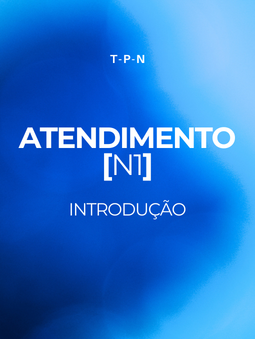
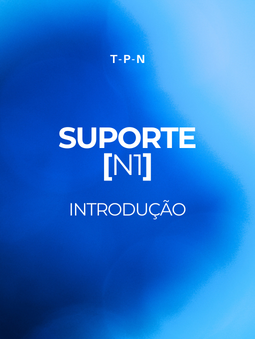
project-v2.0.2

Changed region(s): [[0.0549, 0.354, 0.9333, 0.4425]]

diff --git a/index.html b/index.html
@@ -24,15 +24,13 @@
         </header>
 
         <section class="search-section">
-    <div class="search-bar">
-        <input type="text" placeholder="O que você procura?" aria-label="Pesquisar">
-        
-        <svg class="search-icon" width="22" height="22" viewBox="0 0 24 24" fill="none" stroke="white" stroke-width="2" stroke-linecap="round" stroke-linejoin="round">
-            <circle cx="11" cy="11" r="8"></circle>
-            <line x1="21" y1="21" x2="16.65" y2="16.65"></line>
-        </svg>
-    </div>
-</section>
+            <div class="search-bar">
+                <svg class="search-icon" width="22" height="22" viewBox="0 0 24 24" fill="none" stroke="white" stroke-width="2" stroke-linecap="round" stroke-linejoin="round">
+                    <circle cx="11" cy="11" r="8"></circle>
+                    <line x1="21" y1="21" x2="16.65" y2="16.65"></line>
+                </svg>
+            </div>
+        </section>
 
         <main>
             <section class="main-title-section">
@@ -47,7 +45,7 @@
                     </div>
                     <div class="card-content">
                         <h3>Suporte N1 | [0] - Introdução</h3>
-                        <p>Trabalhar no Suporte de um ISP (Provedor de Internet) é viver no centro de uma operação que não para. Enquanto a cidade dorme, assiste streaming você trabalha.</p>
+                        <p>Trabalhar no suporte é viver no olho do furacão, uma operação que não dorme. Enquanto seus amigos estão bebendo e relaxando, você é o cara que tá no front você é a voz da empresa e o primeiro filtro contra o caos, transformando o "não funciona" do cliente em solução real.</p>
                     </div>
                 </article>
 
@@ -57,7 +55,7 @@
                     </div>
                     <div class="card-content">
                         <h3>Suporte N1 | [1] - Atendimento</h3>
-                        <p>Aqui é onde a mágica acontece. Você já sabe falar com o cliente, agora você quer entender o que está acontecendo por trás da tela.</p>
+                        <p>Aqui é onde você aprende a não ser mais um. O foco é usar a empatia e o senso crítico pra dominar o atendimento. É o seu primeiro passo pra ganhar confiança, mostrar que tem sangue frio e que tá aqui pra resolver de verdade.</p>
                     </div>
                 </article>
 
@@ -67,7 +65,7 @@
                     </div>
                     <div class="card-content">
                         <h3>Suporte N1 | [2] - Técnico</h3>
-                        <p>Aqui você para de apenas observar e começa a entender a lógica da rede.</p>
+                        <p>O foco agora é entender o "porquê" das coisas: É o conhecimento que irá te tirar do automático e te prepara de verdade pra colar com o nerdola do setor.</p>
                     </div>
                 </article>
             </section>